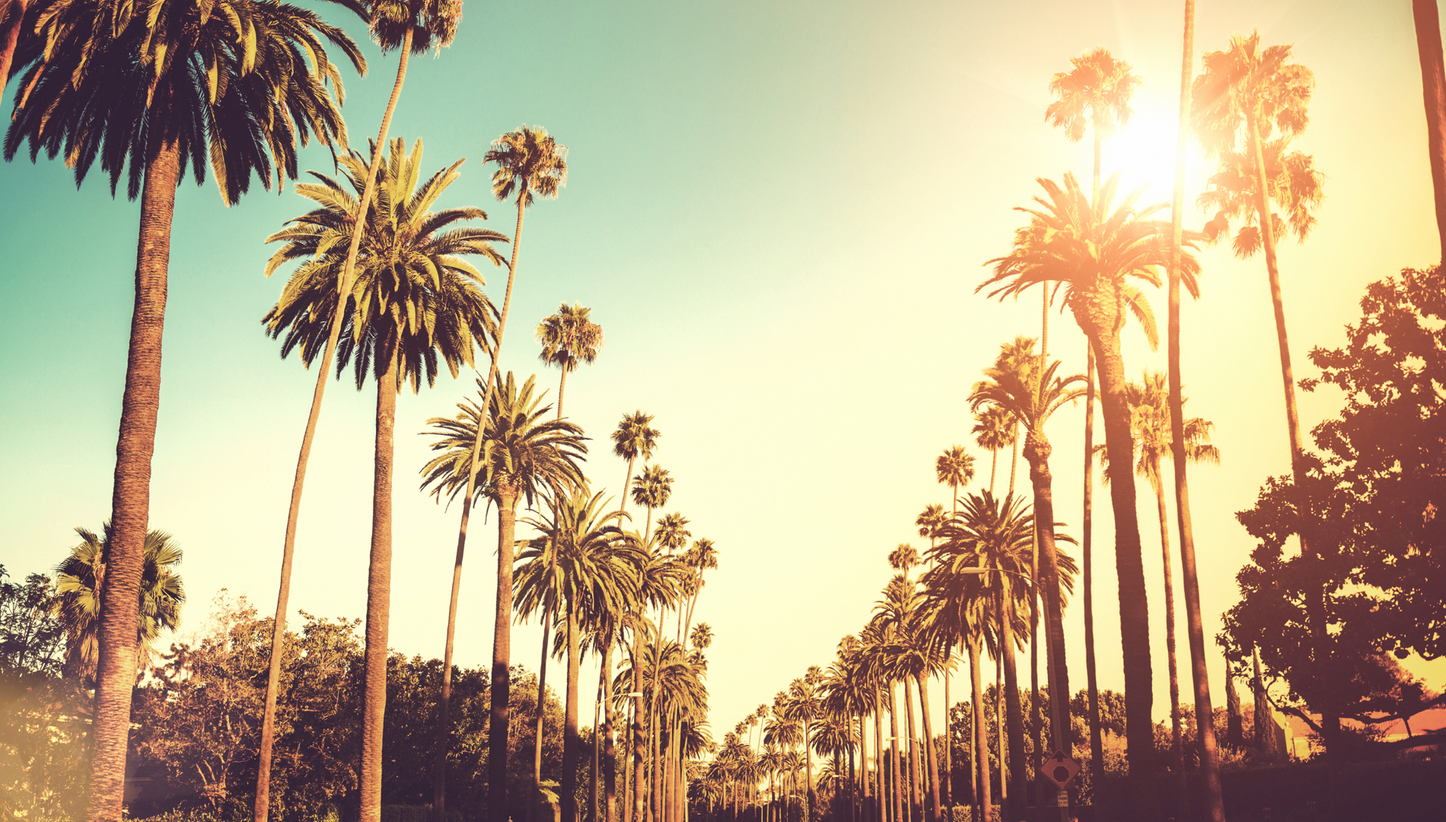
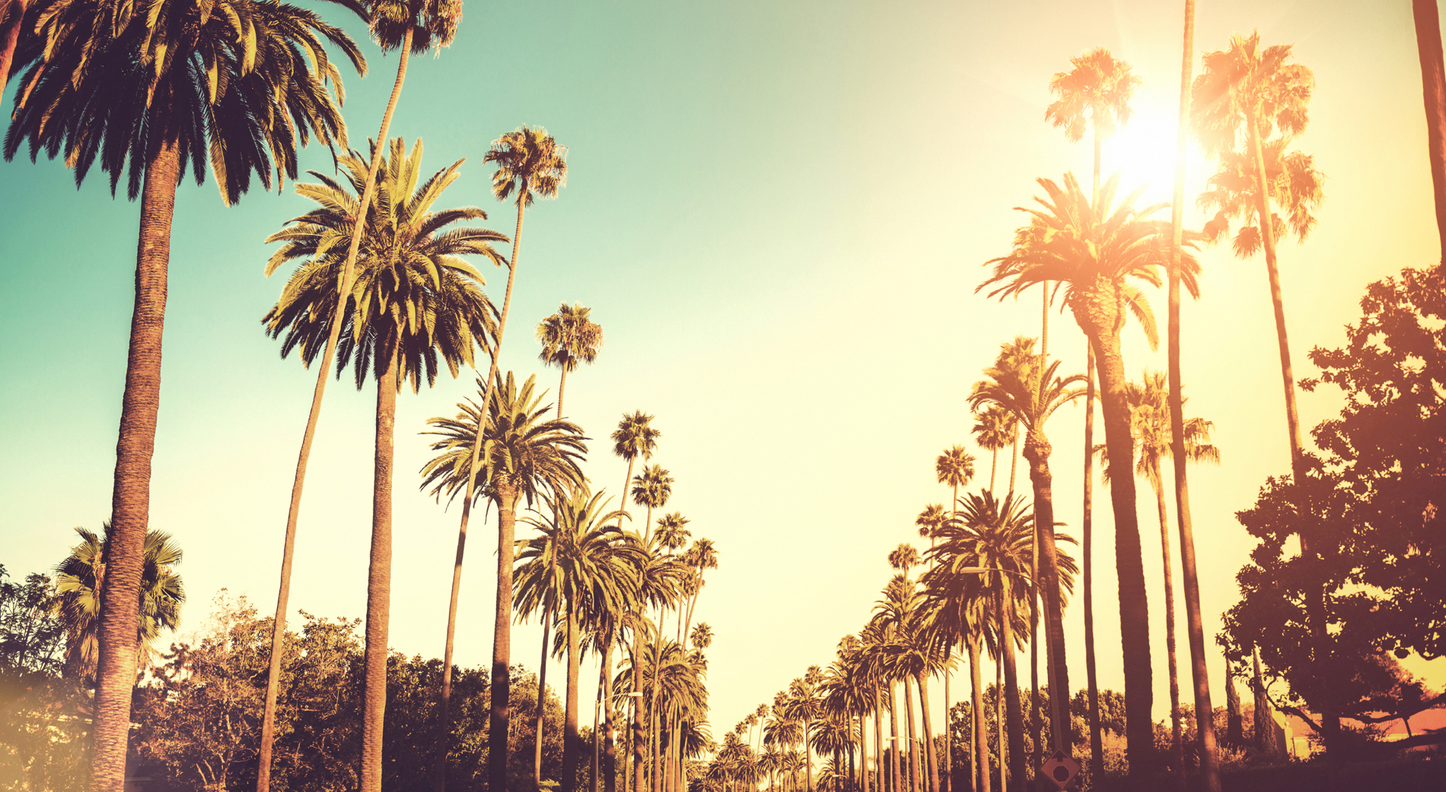
contact photo and shadows added

diff --git a/src/App.js b/src/App.js
@@ -16,6 +16,7 @@ import MessageModal from './components/modals/MessageModal.jsx';
 
 // Images
 import Palms from './styles/img/palms.jpg';
+import myPhoto from './styles/img/roundProfile.png';
 
 class App extends React.Component {
   render() {
@@ -56,14 +57,17 @@ class App extends React.Component {
 
         {/* Contact */}
         <div id="contact" className="container-fluid hero">
-          <img src={Palms} alt="AG"/>
-          <div className="hero contact-content">
+          <img style={{ width: '100%' }} src={Palms} alt="AG"/>      
+          <div className="hero contact-content">  
             <h2>Contact Me</h2>
+            <img className="myPhoto" src={myPhoto} alt="Adam Gemperline"/>    
             <p>I'm interested in learing about new opportunities from software 
               development to web design &ndash; let's chat!
             </p>
             {/* <a className="email" href="mailto:adamgemperline@gmail.com"><span>Email me!</span></a> */}
-            <MessageModal></MessageModal>
+            <div className="box-shadow-5">
+              <MessageModal/>
+            </div>
           </div>
         </div>
         

diff --git a/src/components/modals/MessageModal.jsx b/src/components/modals/MessageModal.jsx
@@ -90,7 +90,7 @@ const FormDialog = () => {
       </MsgButton>
 
       <Dialog open={open} onClose={handleClose} aria-labelledby="Form-dialog-title" >
-        <DialogTitle id="form-dialog-title" className="txt-center" style={{ color: "#a002fc", fontSize:"1.75rem" }}>Let's Chat!</DialogTitle>
+        <DialogTitle id="form-dialog-title" className="txt-center" style={{ color: "#a002fc", fontSize:'48px' }}>Let's Chat!</DialogTitle>
         <DialogContent>
           <DialogContentText>
             Please enter your information and message below
@@ -129,7 +129,7 @@ const FormDialog = () => {
           />
         </DialogContent>
         <DialogActions>
-          <Button onClick={handleClose} color="secondary" style={{ borderRadius:'30px'}} disableRipple="true">
+          <Button onClick={handleClose} color="none" style={{ borderRadius:'30px'}} disableRipple="true">
             Cancel
           </Button>
           <Button onClick={handleSubmit} color="primary" type="submit" style={{ borderRadius:'30px'}} disableRipple="true">

diff --git a/src/styles/css/bootstrap.min.css b/src/styles/css/bootstrap.min.css
@@ -11422,9 +11422,14 @@ span .fa-plus {
   flex-wrap: row nowrap;
   justify-content: flex-start;
   margin: 0;
+  top: 40%;
 }
 .contact-content p {
   width: 50%;
+  background-color: #fff;
+  border-radius: 100px;
+  padding: 10px;
+  box-shadow: 0 0 5px #000;
 }
 .contact-background {
   text-align: center;
@@ -11672,4 +11677,16 @@ text-shadow: none;
   display: flex;
   flex-shrink: inherit;
   margin: auto;
+}
+.myPhoto {
+  max-width: 20%;
+  padding: 5px;
+  margin: 30px auto;
+  border: 4px solid #000;
+  border-radius: 100px;
+  box-shadow: 0 0 5px #000;
+}
+.box-shadow-5 {
+  box-shadow: 0 0 5px #000;
+  border-radius: 10px;
 }

diff --git a/src/components/Navbar.jsx b/src/components/Navbar.jsx
@@ -53,7 +53,7 @@ export function CustomNavBar() {
                         <li className="orange"><a title="Coming Soon!" href="#!"><span>Blog</span></a></li>
                     </div>
                     <div id="right-nav" className="col-lg-3 msg">
-                        <li id="msg-btn"><MessageModal>Message Me</MessageModal></li>          
+                        <li id="msg-btn" title="Message Me"><MessageModal>Message Me</MessageModal></li>          
                     </div>
                 </ul>
             </nav>

diff --git a/src/components/LandingPageCard.jsx b/src/components/LandingPageCard.jsx
@@ -55,7 +55,7 @@ export default function LandingPageCard() {
 
   return (
     <Card className={classes.root} onMouseEnter={() => useStyles}>
-      <CardActionArea>
+      <CardActionArea disableRipple="true">
         <CardMedia
           className={classes.media}
           image={LandingPage}

diff --git a/src/components/CCVerifyCard.jsx b/src/components/CCVerifyCard.jsx
@@ -54,7 +54,7 @@ export default function CCVerifyCard() {
 
   return (
     <Card className={classes.root} onMouseEnter={() => useStyles}>
-      <CardActionArea>
+      <CardActionArea disableRipple="true">
         <CardMedia
           className={classes.media}
           image={MainImage}

diff --git a/src/components/MyWebsiteCard.jsx b/src/components/MyWebsiteCard.jsx
@@ -54,7 +54,7 @@ export default function MyWebsiteCard() {
 
   return (
     <Card className={classes.root} onMouseEnter={() => useStyles}>
-      <CardActionArea>
+      <CardActionArea disableRipple="true">
         <CardMedia
           className={classes.media}
           image={DBTool}

diff --git a/src/components/SocialAppCard.jsx b/src/components/SocialAppCard.jsx
@@ -51,7 +51,7 @@ export default function SocialAppCard() {
 
   return (
     <Card className={classes.root} onMouseEnter={() => useStyles}>
-      <CardActionArea>
+      <CardActionArea disableRipple="true">
         <CardMedia
           className={classes.media}
           image={DBTool}

diff --git a/src/components/DBToolCard.jsx b/src/components/DBToolCard.jsx
@@ -54,7 +54,7 @@ export default function DBToolCard() {
 
   return (
     <Card className={classes.root} onMouseEnter={() => useStyles}>
-      <CardActionArea>
+      <CardActionArea disableRipple="true">
         <CardMedia
           className={classes.media}
           image={DBTool}
